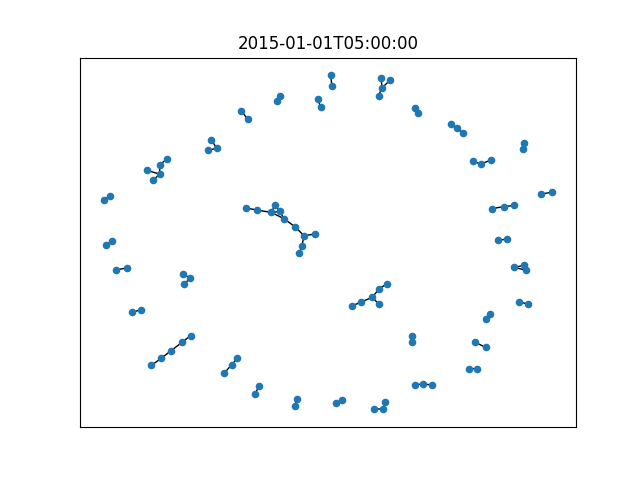
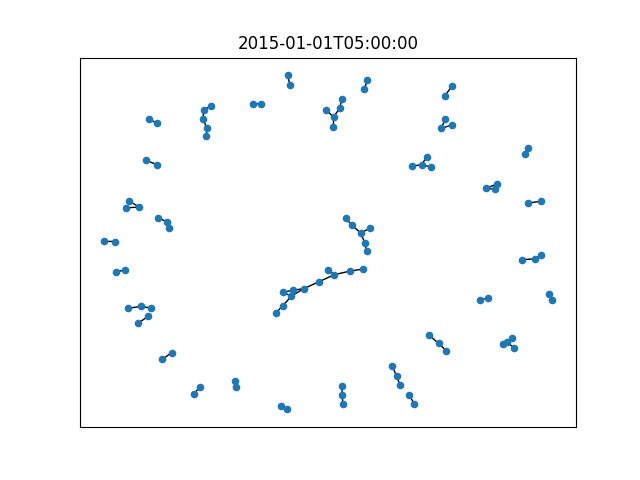
Changed time scale

diff --git a/src/03_find_components.py b/src/03_find_components.py
@@ -65,7 +65,7 @@ def flatten(group):
     } for component in group[1]]
 
 
-def find_components(inpath="data/02_normalize/*.csv", outpath="data/03_find_components/*.ndjson", period=60 * 60):
+def find_components(inpath="data/02_normalize/*.csv", outpath="data/03_find_components/*.ndjson", period=30 * 60):
 
     with open("data/meta/period.txt", "w+") as f:
         f.write("<INVALID>")
